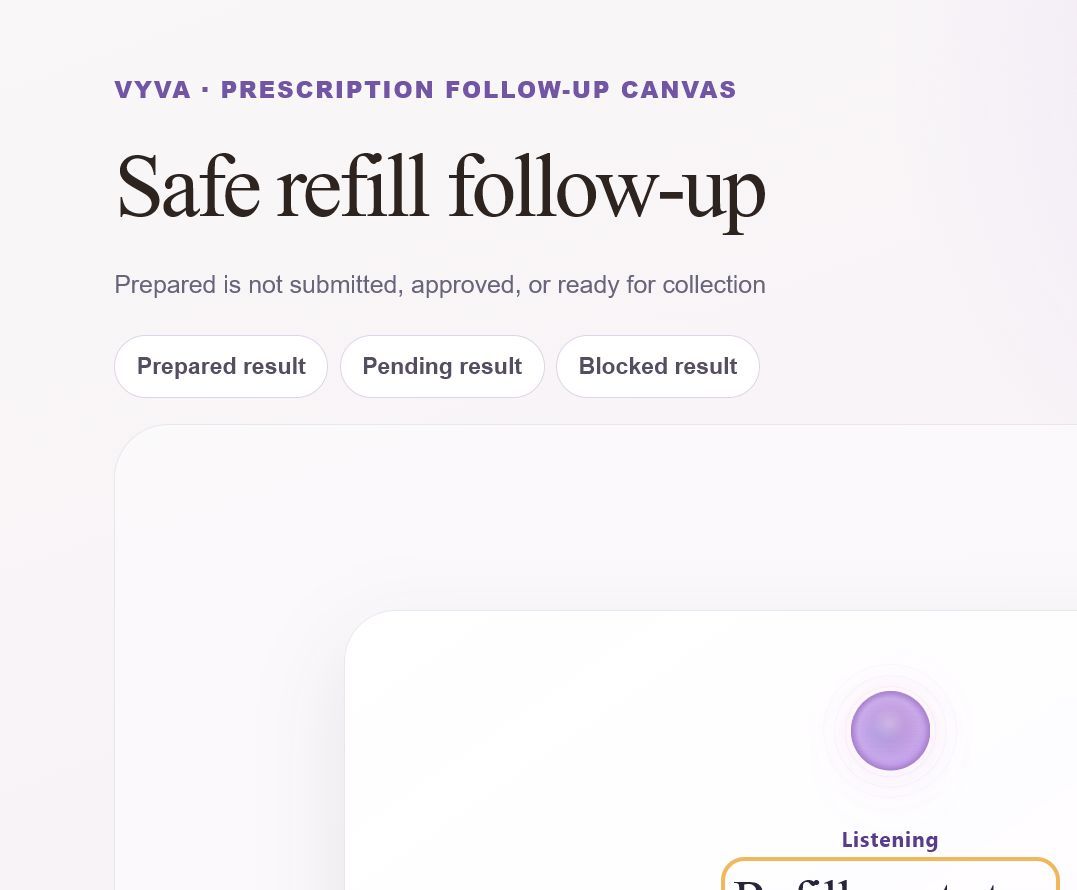
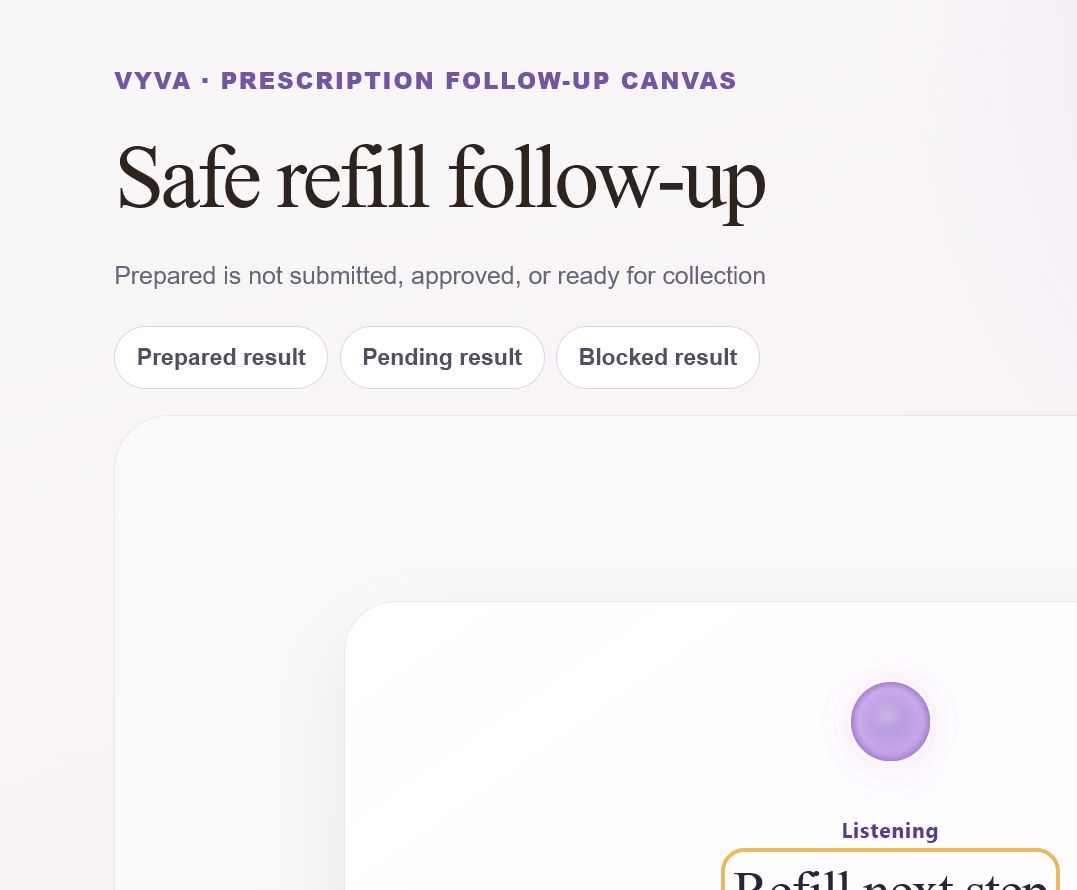
Harden prescription follow-up status handling

diff --git a/src/pages/AdherenceReportScreen.tsx b/src/pages/AdherenceReportScreen.tsx
@@ -7,7 +7,7 @@ import { useToast } from "@/hooks/use-toast";
 import VoiceActionFulfillmentPanel from "@/components/VoiceActionFulfillmentPanel";
 import { useVoiceActionFulfillment } from "@/hooks/useVoiceActionFulfillment";
 import { ApiError, apiFetch } from "@/lib/queryClient";
-import { PrescriptionFollowUpVoiceCanvas, RefillVoiceCanvas, isPrescriptionFollowUpEnabled, isRefillCanvasEnabled, parsePrescriptionFollowUpRolloutConfig, parseRefillCanvasRolloutConfig, trackPrescriptionFollowUpEvent, trackRefillCanvasEvent, type PrescriptionFollowUpCopy, type PrescriptionFollowUpSource, type RefillCanvasCopy, type RefillCanvasDraft } from "@/components/voice-canvas";
+import { PrescriptionFollowUpVoiceCanvas, RefillVoiceCanvas, executePrescriptionFollowUp, isPrescriptionFollowUpEnabled, isRefillCanvasEnabled, parsePrescriptionFollowUpRolloutConfig, parseRefillCanvasRolloutConfig, trackPrescriptionFollowUpEvent, trackRefillCanvasEvent, type PrescriptionFollowUpCopy, type PrescriptionFollowUpSource, type RefillCanvasCopy, type RefillCanvasDraft } from "@/components/voice-canvas";
 import { useProfile } from "@/contexts/ProfileContext";
 import { useLanguage } from "@/i18n";
 import { sanitizePhoneHref } from "@/lib/emergencyContacts";
@@ -344,8 +344,9 @@ const AdherenceReportScreen = () => {
   const urgentTerms=useMemo(()=>isSpanish?["reacción grave","sobredosis","no puedo respirar","medicamento crítico","me he quedado sin"]:["severe reaction","overdose","cannot breathe","can't breathe","time-critical medicine","critical medicine ran out"],[isSpanish]);
   const confirmRefillPreparation=useCallback(async(draft:Readonly<RefillCanvasDraft>,{signal}:{requestId:number;signal:AbortSignal})=>{const response=await apiFetch("/api/concierge/actions/trigger",{method:"POST",signal,body:JSON.stringify({use_case:"order_medicine",provider_name:draft.providerName,found_externally:false,action_summary:`Medication refill preparation ready for review.`,action_payload:{preparation_only:true,prescription_refill:true,medication_name:draft.medicationName,strength:draft.strength,provider_name:draft.providerName,provider_kind:draft.providerKind||"unspecified",quantity_or_supply:draft.quantity,notes:draft.notes,preferred_contact_method:draft.contactMethod,confirmation_required_before_contact:true,refill_requested:false,refill_approved:false,no_dosing_advice:true},language,trigger_source:"medication_refill_canvas",auto_start:false})});if(!response.ok){const body=await response.json().catch(()=>null)as{error?:string}|null;throw new Error(body?.error??(isSpanish?"No pudimos preparar la reposición.":"We could not prepare the refill."))}const result=await response.json()as{pendingId?:string;status?:string};return{reference:result.pendingId||result.status}},[isSpanish,language]);
   const followUpCopy=useMemo<PrescriptionFollowUpCopy>(()=>({listening:{status:isSpanish?"Escuchando":"Listening",title:isSpanish?"Siguiente paso de la reposición":"Refill next step",helper:isSpanish?"La preparación está guardada, pero aún no se ha solicitado ni aprobado.":"The preparation is saved, but it has not been requested or approved.",start:isSpanish?"Elegir siguiente paso":"Choose next step",cancel:isSpanish?"Ahora no":"Not now"},nextStep:{title:isSpanish?"¿Qué quieres hacer ahora?":"What would you like to do next?",helper:isSpanish?"Solo prepararemos el paso que elijas.":"We will only prepare the step you choose.",clinician:isSpanish?"Preparar revisión clínica":"Prepare clinician review",clinicianHelper:isSpanish?"No contacta al profesional todavía.":"Does not contact the clinician yet.",pharmacy:isSpanish?"Preparar revisión de farmacia":"Prepare pharmacy review",pharmacyHelper:isSpanish?"No contacta a la farmacia todavía.":"Does not contact the pharmacy yet.",status:isSpanish?"Comprobar estado de preparación":"Check preparation status",statusHelper:isSpanish?"No implica aprobación ni disponibilidad.":"Does not imply approval or collection readiness.",update:isSpanish?"Añadir información que falta":"Add missing information",updateHelper:isSpanish?"Revisa el dato antes de guardarlo.":"Review the detail before saving it.",back:isSpanish?"Salir":"Exit"},missingInfo:{title:isSpanish?"¿Qué información falta?":"What information is missing?",helper:isSpanish?"No incluyas instrucciones de dosis nuevas.":"Do not add new dosing instructions.",label:isSpanish?"Información para revisar":"Information to review",placeholder:isSpanish?"Añade solo el dato necesario":"Add only the necessary detail",continue:isSpanish?"Continuar":"Continue",back:isSpanish?"Volver":"Go back"},review:{title:isSpanish?"Revisa el siguiente paso":"Review the next step",helper:isSpanish?"Nada se contacta ni se guarda hasta que confirmes.":"Nothing is contacted or saved until you confirm.",nextStep:isSpanish?"Siguiente paso":"Next step",medication:isSpanish?"Medicamento":"Medication",reviewer:isSpanish?"Revisor previsto":"Intended reviewer",information:isSpanish?"Información":"Information",prepared:isSpanish?"Estado actual: preparado":"Current status: prepared",confirm:isSpanish?"Confirmar siguiente paso":"Confirm next step",back:isSpanish?"Cambiar":"Make a change",actionLabels:{clinician:isSpanish?"Preparar revisión clínica":"Prepare clinician review",pharmacy:isSpanish?"Preparar revisión de farmacia":"Prepare pharmacy review",status:isSpanish?"Comprobar estado":"Check preparation status",update:isSpanish?"Añadir información":"Add information"}},waiting:{status:isSpanish?"Espera un momento":"Please wait",title:isSpanish?"Procesando el paso confirmado":"Processing the confirmed step",helper:isSpanish?"Esto no significa que la reposición esté aprobada o lista.":"This does not mean the refill is approved or ready.",action:isSpanish?"Procesando…":"Processing…"},completed:{status:isSpanish?"Preparado":"Prepared",title:isSpanish?"El siguiente paso está preparado":"The next step is prepared",helper:isSpanish?"Aún no se ha contactado, aprobado ni dispensado nada.":"Nothing has been contacted, approved, or dispensed.",reference:isSpanish?"Referencia":"Reference",done:isSpanish?"Terminar":"Done"},pending:{status:isSpanish?"Pendiente":"Pending",title:isSpanish?"La preparación sigue pendiente":"The preparation is still pending",helper:isSpanish?"No hay confirmación de aprobación ni de recogida.":"There is no confirmation of approval or collection readiness.",reference:isSpanish?"Referencia":"Reference",done:isSpanish?"Terminar":"Done"},blocked:{status:isSpanish?"Necesita atención":"Needs attention",title:isSpanish?"No pudimos completar este paso":"We could not complete this step",helper:isSpanish?"Puedes revisar e intentarlo otra vez.":"You can review and try again.",retry:isSpanish?"Revisar e intentar otra vez":"Review and retry",cancel:isSpanish?"Cancelar":"Cancel"},cancelled:{status:isSpanish?"Cancelado":"Cancelled",title:isSpanish?"No se hizo ningún cambio":"No change was made",helper:isSpanish?"No se contactó a nadie ni se guardó información.":"Nobody was contacted and no information was saved.",restart:isSpanish?"Empezar otra vez":"Start again"},progress:(current,total)=>isSpanish?`Paso ${current} de ${total}`:`Step ${current} of ${total}`}),[isSpanish]);
+  const safeFollowUpCopy=useMemo<PrescriptionFollowUpCopy>(()=>({...followUpCopy,listening:{...followUpCopy.listening,helper:isSpanish?"La preparación está guardada; no se ha enviado, aprobado ni marcado como lista para recoger.":"The preparation is saved; it has not been submitted, approved, or marked ready for collection."},review:{...followUpCopy.review,contact:isSpanish?"Contacto previsto":"Intended contact"},completed:{...followUpCopy.completed,helper:isSpanish?"El siguiente paso está preparado, no enviado. No se ha aprobado ni dispensado nada.":"The next step is prepared, not submitted. Nothing has been approved or dispensed."},pending:{...followUpCopy.pending,helper:isSpanish?"Sigue pendiente; no hay confirmación de envío, aprobación ni disponibilidad para recoger.":"It remains pending; there is no confirmation of submission, approval, or collection readiness."}}),[followUpCopy,isSpanish]);
   const followUpCommands=useMemo(()=>({start:isSpanish?["elegir siguiente paso","empezar"]:["choose next step","start"],back:isSpanish?["volver","atrás"]:["back","go back"],cancel:isSpanish?["cancelar","ahora no"]:["cancel","not now"],confirm:isSpanish?["confirmar"]:["confirm"],retry:isSpanish?["intentar otra vez"]:["retry"],clinician:isSpanish?["revisión clínica","profesional"]:["clinician review","clinician"],pharmacy:isSpanish?["revisión de farmacia","farmacia"]:["pharmacy review","pharmacy"],status:isSpanish?["comprobar estado","estado"]:["check status","status"],update:isSpanish?["añadir información","actualizar"]:["add information","update"]}),[isSpanish]);
-  const confirmPrescriptionFollowUp=useCallback(async(source:Readonly<PrescriptionFollowUpSource>,draft:{action:string;missingInformation:string},{signal}:{requestId:number;signal:AbortSignal})=>{if(draft.action==="status"){const response=await apiFetch("/api/concierge/actions/pending",{signal});if(!response.ok)throw new Error(isSpanish?"No pudimos comprobar el estado.":"We could not check the status.");const body=await response.json()as{items?:Array<{id:string}>};return{outcome:"pending" as const,reference:body.items?.find(item=>item.id===source.preparationReference)?.id||source.preparationReference}}const response=await apiFetch("/api/concierge/actions/trigger",{method:"POST",signal,body:JSON.stringify({use_case:"order_medicine",provider_name:source.draft.providerName,found_externally:false,action_summary:"Prescription follow-up preparation ready for review.",action_payload:{preparation_only:true,prescription_follow_up:true,source_preparation_id:source.preparationReference,follow_up_kind:draft.action,missing_information:draft.action==="update"?draft.missingInformation:undefined,confirmation_required_before_contact:true,external_contact_started:false,refill_requested:false,refill_approved:false,ready_for_collection:false,no_dosing_advice:true},language,trigger_source:"manual",auto_start:false})});if(!response.ok){const body=await response.json().catch(()=>null)as{error?:string}|null;throw new Error(body?.error??(isSpanish?"No pudimos preparar el siguiente paso.":"We could not prepare the next step."))}const result=await response.json()as{pendingId?:string};return{outcome:"completed" as const,reference:result.pendingId}},[isSpanish,language]);
+  const confirmPrescriptionFollowUp=useCallback((source:Readonly<PrescriptionFollowUpSource>,draft:{action:""|"clinician"|"pharmacy"|"status"|"update";missingInformation:string},{signal}:{requestId:number;signal:AbortSignal})=>executePrescriptionFollowUp(apiFetch,source,draft,{signal,language,messages:{statusFailed:isSpanish?"No pudimos comprobar el estado.":"We could not check the status.",statusUnknown:isSpanish?"No hay un estado verificable para esta preparación.":"No verified status is available for this preparation.",prepareFailed:isSpanish?"No pudimos preparar el siguiente paso.":"We could not prepare the next step."}}),[isSpanish,language]);
   const serviceActions: AdherenceServiceAction[] = [
     {
       id: "refill",
@@ -601,7 +602,7 @@ const AdherenceReportScreen = () => {
 
         {prescriptionFollowUpSource&&prescriptionFollowUpEnabled&&!refillCanvasOpen&&(
           <section className="mb-[14px] flex justify-center rounded-[28px] bg-[#F8F4FA] p-2 sm:p-4" data-testid="panel-prescription-follow-up-voice-canvas">
-            <PrescriptionFollowUpVoiceCanvas source={prescriptionFollowUpSource} copy={followUpCopy} voiceCommands={followUpCommands} storageKey={`vyva.prescriptionFollowUp.adherence.${profile?.profileId??"active"}.${prescriptionFollowUpSource.preparationReference}`} onConfirm={confirmPrescriptionFollowUp} onDone={()=>setPrescriptionFollowUpSource(null)} onCancel={()=>setPrescriptionFollowUpSource(null)} onTelemetry={trackPrescriptionFollowUpEvent}/>
+            <PrescriptionFollowUpVoiceCanvas source={prescriptionFollowUpSource} copy={safeFollowUpCopy} voiceCommands={followUpCommands} storageKey={`vyva.prescriptionFollowUp.adherence.${profile?.profileId??"active"}.${prescriptionFollowUpSource.preparationReference}`} onConfirm={confirmPrescriptionFollowUp} onDone={()=>setPrescriptionFollowUpSource(null)} onCancel={()=>setPrescriptionFollowUpSource(null)} onTelemetry={trackPrescriptionFollowUpEvent}/>
           </section>
         )}
 

diff --git a/src/components/voice-canvas/prescriptionFollowUpViewModel.ts b/src/components/voice-canvas/prescriptionFollowUpViewModel.ts
@@ -1,10 +1,10 @@
 import{Building2,ClipboardCheck,FilePenLine,Stethoscope}from"lucide-react";import type{VoiceCanvasViewModel}from"./types";import type{PrescriptionFollowUpAction,PrescriptionFollowUpState}from"./prescriptionFollowUpMachine";
-export interface PrescriptionFollowUpCopy{listening:{status:string;title:string;helper:string;start:string;cancel:string};nextStep:{title:string;helper:string;clinician:string;clinicianHelper:string;pharmacy:string;pharmacyHelper:string;status:string;statusHelper:string;update:string;updateHelper:string;back:string};missingInfo:{title:string;helper:string;label:string;placeholder:string;continue:string;back:string};review:{title:string;helper:string;nextStep:string;medication:string;reviewer:string;information:string;prepared:string;confirm:string;back:string;actionLabels:Record<Exclude<PrescriptionFollowUpAction,"">,string>};waiting:{status:string;title:string;helper:string;action:string};completed:{status:string;title:string;helper:string;reference:string;done:string};pending:{status:string;title:string;helper:string;reference:string;done:string};blocked:{status:string;title:string;helper:string;retry:string;cancel:string};cancelled:{status:string;title:string;helper:string;restart:string};progress:(current:number,total:number)=>string}
+export interface PrescriptionFollowUpCopy{listening:{status:string;title:string;helper:string;start:string;cancel:string};nextStep:{title:string;helper:string;clinician:string;clinicianHelper:string;pharmacy:string;pharmacyHelper:string;status:string;statusHelper:string;update:string;updateHelper:string;back:string};missingInfo:{title:string;helper:string;label:string;placeholder:string;continue:string;back:string};review:{title:string;helper:string;nextStep:string;medication:string;reviewer:string;contact?:string;information:string;prepared:string;confirm:string;back:string;actionLabels:Record<Exclude<PrescriptionFollowUpAction,"">,string>};waiting:{status:string;title:string;helper:string;action:string};completed:{status:string;title:string;helper:string;reference:string;done:string};pending:{status:string;title:string;helper:string;reference:string;done:string};blocked:{status:string;title:string;helper:string;retry:string;cancel:string};cancelled:{status:string;title:string;helper:string;restart:string};progress:(current:number,total:number)=>string}
 export function prescriptionFollowUpViewModel(state:PrescriptionFollowUpState,copy:PrescriptionFollowUpCopy):VoiceCanvasViewModel{const progress=(current:number)=>({current,total:3,label:copy.progress(current,3)}),action=state.draft.action&&copy.review.actionLabels[state.draft.action];switch(state.step){
  case"listening":return{sceneId:"prescription-follow-up-listening",kind:"listening",title:copy.listening.title,helperText:copy.listening.helper,status:"listening",statusLabel:copy.listening.status,primaryAction:{label:copy.listening.start},secondaryAction:{label:copy.listening.cancel}};
  case"nextStep":return{sceneId:"prescription-follow-up-next-step",kind:"choice",title:copy.nextStep.title,helperText:copy.nextStep.helper,progress:progress(1),choices:[{id:"clinician",label:copy.nextStep.clinician,description:copy.nextStep.clinicianHelper,accessibleLabel:copy.nextStep.clinician,icon:Stethoscope},{id:"pharmacy",label:copy.nextStep.pharmacy,description:copy.nextStep.pharmacyHelper,accessibleLabel:copy.nextStep.pharmacy,icon:Building2},{id:"status",label:copy.nextStep.status,description:copy.nextStep.statusHelper,accessibleLabel:copy.nextStep.status,icon:ClipboardCheck},{id:"update",label:copy.nextStep.update,description:copy.nextStep.updateHelper,accessibleLabel:copy.nextStep.update,icon:FilePenLine}],secondaryAction:{label:copy.nextStep.back}};
  case"missingInfo":return{sceneId:"prescription-follow-up-missing-info",kind:"text-entry",title:copy.missingInfo.title,helperText:copy.missingInfo.helper,progress:progress(2),textEntry:{label:copy.missingInfo.label,value:state.draft.missingInformation,placeholder:copy.missingInfo.placeholder,accessibleLabel:copy.missingInfo.label,multiline:true},primaryAction:{label:copy.missingInfo.continue,disabled:!state.draft.missingInformation.trim()},secondaryAction:{label:copy.missingInfo.back}};
- case"review":return{sceneId:"prescription-follow-up-review",kind:"review",title:copy.review.title,helperText:copy.review.helper,progress:progress(3),summaryRows:[{id:"status",label:copy.review.prepared,value:copy.review.prepared},{id:"action",label:copy.review.nextStep,value:action||""},{id:"medication",label:copy.review.medication,value:state.source.draft.medicationName},{id:"reviewer",label:copy.review.reviewer,value:state.source.draft.providerName},...(state.draft.missingInformation?[{id:"information",label:copy.review.information,value:state.draft.missingInformation}]:[])],primaryAction:{label:copy.review.confirm},secondaryAction:{label:copy.review.back}};
+ case"review":return{sceneId:"prescription-follow-up-review",kind:"review",title:copy.review.title,helperText:copy.review.helper,progress:progress(3),summaryRows:[{id:"status",label:copy.review.prepared,value:copy.review.prepared},{id:"action",label:copy.review.nextStep,value:action||""},{id:"medication",label:copy.review.medication,value:state.source.draft.medicationName},{id:"reviewer",label:copy.review.reviewer,value:state.source.draft.providerName},{id:"contact",label:copy.review.contact||copy.review.reviewer,value:state.source.draft.contactMethod},...(state.draft.missingInformation?[{id:"information",label:copy.review.information,value:state.draft.missingInformation}]:[])],primaryAction:{label:copy.review.confirm},secondaryAction:{label:copy.review.back}};
  case"waiting":return{sceneId:"prescription-follow-up-waiting",kind:"waiting",title:copy.waiting.title,helperText:copy.waiting.helper,status:"loading",statusLabel:copy.waiting.status,primaryAction:{label:copy.waiting.action,loading:true}};
  case"completed":return{sceneId:"prescription-follow-up-completed",kind:"completed",title:copy.completed.title,helperText:copy.completed.helper,status:"success",statusLabel:copy.completed.status,summaryRows:state.resultReference?[{id:"reference",label:copy.completed.reference,value:state.resultReference}]:[],primaryAction:{label:copy.completed.done}};
  case"pending":return{sceneId:"prescription-follow-up-pending",kind:"completed",title:copy.pending.title,helperText:copy.pending.helper,status:"idle",statusLabel:copy.pending.status,summaryRows:state.resultReference?[{id:"reference",label:copy.pending.reference,value:state.resultReference}]:[],primaryAction:{label:copy.pending.done}};

diff --git a/src/dev/voice-canvas/prescription-follow-up.tsx b/src/dev/voice-canvas/prescription-follow-up.tsx
@@ -1,4 +1,5 @@
 import{useCallback,useState}from"react";import{PrescriptionFollowUpVoiceCanvas,type PrescriptionFollowUpCopy}from"../../components/voice-canvas";import"./gallery.css";import"./integration.css";import"./prescription-follow-up.css";
 const en:PrescriptionFollowUpCopy={listening:{status:"Listening",title:"Refill next step",helper:"Your refill preparation is saved. It has not been requested or approved.",start:"Choose next step",cancel:"Not now"},nextStep:{title:"What would you like to do next?",helper:"We will only prepare the step you choose.",clinician:"Prepare clinician review",clinicianHelper:"Nobody is contacted yet",pharmacy:"Prepare pharmacy review",pharmacyHelper:"The pharmacy is not contacted yet",status:"Check preparation status",statusHelper:"This does not imply approval or collection readiness",update:"Add missing information",updateHelper:"Review the detail before saving",back:"Exit"},missingInfo:{title:"What information is missing?",helper:"Do not add new dosing instructions.",label:"Information to review",placeholder:"Add only the necessary detail",continue:"Continue",back:"Go back"},review:{title:"Review the next step",helper:"Nothing is contacted or saved until you confirm.",nextStep:"Next step",medication:"Medication",reviewer:"Intended reviewer",information:"Information",prepared:"Current status: prepared",confirm:"Confirm next step",back:"Make a change",actionLabels:{clinician:"Prepare clinician review",pharmacy:"Prepare pharmacy review",status:"Check preparation status",update:"Add missing information"}},waiting:{status:"Please wait",title:"Processing the confirmed step",helper:"This does not mean the refill is approved or ready.",action:"Processing…"},completed:{status:"Prepared",title:"The next step is prepared",helper:"Nothing has been contacted, approved, or dispensed.",reference:"Reference",done:"Done"},pending:{status:"Pending",title:"The preparation is still pending",helper:"There is no confirmation of approval or collection readiness.",reference:"Reference",done:"Done"},blocked:{status:"Needs attention",title:"We could not complete this step",helper:"Review and try again.",retry:"Review and retry",cancel:"Cancel"},cancelled:{status:"Cancelled",title:"No change was made",helper:"Nobody was contacted and no information was saved.",restart:"Start again"},progress:(a,b)=>`Step ${a} of ${b}`};
+en.review.contact="Intended contact";en.listening.helper="Your refill preparation is saved. It has not been submitted, approved, or marked ready for collection.";en.completed.helper="The next step is prepared, not submitted. Nothing has been approved or dispensed.";en.pending.helper="It remains pending; there is no confirmation of submission, approval, or collection readiness.";
 const source={preparationReference:"VYVA-REFILL-2486",preparationStatus:"prepared" as const,draft:{medicationId:"metformin",medicationName:"Metformin",strength:"500 mg",providerId:"gp",providerName:"Dr Garcia",providerKind:"prescriber" as const,quantity:"30 days",notes:"",contactMethod:"Review in VYVA"}};
 export default function Gallery(){const[outcome,setOutcome]=useState<"completed"|"pending"|"blocked">("completed"),confirm=useCallback(async()=>{await new Promise(resolve=>setTimeout(resolve,350));if(outcome==="blocked")throw new Error("The follow-up service is temporarily unavailable.");return{outcome:outcome as"completed"|"pending",reference:"VYVA-FOLLOW-UP-2487"}},[outcome]);return <main className="vc-gallery vc-integration-gallery"><header><p>VYVA · Prescription Follow-up Canvas</p><h1>Safe refill follow-up</h1><span>Prepared is not submitted, approved, or ready for collection</span></header><div className="vc-demo-toolbar"><button onClick={()=>setOutcome("completed")}>Prepared result</button><button onClick={()=>setOutcome("pending")}>Pending result</button><button onClick={()=>setOutcome("blocked")}>Blocked result</button></div><div className="vc-gallery-stage"><PrescriptionFollowUpVoiceCanvas source={source} copy={en} voiceCommands={{start:["start"],back:["back"],cancel:["cancel"],confirm:["confirm"],retry:["retry"],clinician:["clinician"],pharmacy:["pharmacy"],status:["status"],update:["update"]}} onConfirm={confirm} storageKey="prescription-follow-up-gallery"/></div></main>}

diff --git a/src/components/voice-canvas/PrescriptionFollowUpVoiceCanvas.test.tsx b/src/components/voice-canvas/PrescriptionFollowUpVoiceCanvas.test.tsx
@@ -9,5 +9,7 @@ it("blocks duplicates, retries failures, and ignores stale completion",async()=>
 it("cancels without calling the confirmation boundary",()=>{const confirm=vi.fn();render(<PrescriptionFollowUpVoiceCanvas {...base} onConfirm={confirm}/>);click("Not now");expect(screen.getByRole("heading",{name:"No change"})).toBeInTheDocument();expect(confirm).not.toHaveBeenCalled()});
 it("restores safe input but not waiting requests",()=>{sessionStorage.setItem("follow-up-test",JSON.stringify({step:"missingInfo",source,draft:{action:"update",missingInformation:"Saved detail"},requestId:0}));const{unmount}=render(<PrescriptionFollowUpVoiceCanvas {...base}/>);expect(screen.getByDisplayValue("Saved detail")).toBeInTheDocument();unmount();sessionStorage.setItem("follow-up-test",JSON.stringify({step:"waiting",source,draft:{action:"status",missingInformation:""},requestId:3}));render(<PrescriptionFollowUpVoiceCanvas {...base}/>);expect(screen.getByRole("heading",{name:"Refill next step"})).toBeInTheDocument()});
 it("supports voice and keyboard-only completion",async()=>{const confirm=vi.fn().mockResolvedValue({outcome:"completed",reference:"VOICE"});render(<PrescriptionFollowUpVoiceCanvas {...base} onConfirm={confirm}/>);act(()=>say("start"));await screen.findByRole("heading",{name:"What next?"});act(()=>say("pharmacy"));expect(await screen.findByRole("heading",{name:"Review next step"})).toHaveFocus();act(()=>say("confirm"));expect(await screen.findByText("VOICE")).toBeInTheDocument()});
+it("handles a voice interruption as a safe cancellation",async()=>{const confirm=vi.fn();render(<PrescriptionFollowUpVoiceCanvas {...base} onConfirm={confirm}/>);act(()=>say("start"));await screen.findByRole("heading",{name:"What next?"});act(()=>say("cancel"));expect(await screen.findByRole("heading",{name:"No change"})).toBeInTheDocument();expect(confirm).not.toHaveBeenCalled()});
+it("supports Spanish copy and long translated labels",()=>{const spanish={...copy,listening:{...copy.listening,title:"Siguiente paso de la reposición",start:"Elegir siguiente paso"},nextStep:{...copy.nextStep,title:"¿Qué quieres hacer ahora?",pharmacy:"Preparar una revisión con la farmacia comunitaria de nombre especialmente largo"}};render(<PrescriptionFollowUpVoiceCanvas {...base} copy={spanish}/>);click("Elegir siguiente paso");expect(screen.getByRole("heading",{name:"¿Qué quieres hacer ahora?"})).toBeInTheDocument();expect(screen.getByRole("button",{name:"Preparar una revisión con la farmacia comunitaria de nombre especialmente largo"})).toBeVisible()});
 it("aborts reconnect work and emits privacy-safe telemetry",async()=>{const events:unknown[]=[];const confirm=vi.fn((_source,_draft,{signal})=>new Promise((_resolve,reject)=>signal.addEventListener("abort",()=>reject(new DOMException("Aborted","AbortError")))));const{unmount}=render(<PrescriptionFollowUpVoiceCanvas {...base} onConfirm={confirm} onTelemetry={event=>events.push(event)}/>);begin("Pharmacy review");click("Confirm next step");const signal=confirm.mock.calls[0][2].signal;unmount();expect(signal.aborted).toBe(true);await waitFor(()=>expect(JSON.stringify(events)).not.toContain("Metformin"))});
 describe.each([390,768,1440])("%s px",width=>it("keeps long translated actions visible",()=>{Object.defineProperty(window,"innerWidth",{value:width,configurable:true});render(<PrescriptionFollowUpVoiceCanvas {...base}/>);click("Choose next step");expect(screen.getByRole("button",{name:"Pharmacy review"})).toBeVisible()}));

diff --git a/src/pages/AdherenceReportScreen.actions.test.tsx b/src/pages/AdherenceReportScreen.actions.test.tsx
@@ -5,6 +5,9 @@ import AdherenceReportScreen from "./AdherenceReportScreen";
 
 const profileMock = vi.fn();
 const queryResultMock = vi.fn();
+const apiFetchMock = vi.fn();
+
+vi.mock("@/lib/queryClient",async(importOriginal)=>{const actual=await importOriginal<typeof import("@/lib/queryClient")>();return{...actual,apiFetch:(...args:unknown[])=>apiFetchMock(...args)}});
 
 vi.mock("@tanstack/react-query", async (importOriginal) => {
   const actual = await importOriginal<typeof import("@tanstack/react-query")>();
@@ -134,6 +137,7 @@ function renderAdherenceReport() {
 describe("Adherence report service actions", () => {
   beforeEach(() => {
     vi.clearAllMocks();
+    apiFetchMock.mockResolvedValue({ok:true,json:async()=>({pendingId:"PREP-1"})});
     profileMock.mockReturnValue({
       profile: {
         gpName: "Dr Garcia",
@@ -212,6 +216,8 @@ describe("Adherence report service actions", () => {
 
     await waitFor(() => expect(screen.queryByTestId("panel-medication-refill-voice-canvas")).not.toBeInTheDocument());
   });
+
+  it("hands a confirmed refill preparation into independently flagged follow-up",async()=>{queryResultMock.mockImplementation((options:{queryKey?:string[]})=>({data:options?.queryKey?.[0]?.includes("voice-canvas")?{enabled:true,rolloutPercent:100}:report,isLoading:false,isError:false,refetch:vi.fn(),error:null}));renderAdherenceReport();fireEvent.click(screen.getByTestId("button-adherence-service-refill"));fireEvent.click(await screen.findByRole("button",{name:"Start"}));fireEvent.click(screen.getByRole("button",{name:"Metformin"}));fireEvent.click(screen.getByRole("button",{name:"Yes, routine refill"}));fireEvent.click(screen.getByRole("button",{name:"Dr Garcia"}));fireEvent.change(screen.getByLabelText("Quantity or supply"),{target:{value:"30 days"}});fireEvent.click(screen.getByRole("button",{name:"Continue"}));fireEvent.click(screen.getByRole("button",{name:"Continue"}));fireEvent.click(screen.getByRole("button",{name:"Review in VYVA"}));expect(apiFetchMock).not.toHaveBeenCalledWith("/api/concierge/actions/trigger",expect.anything());fireEvent.click(screen.getByRole("button",{name:"Confirm and prepare"}));await screen.findByText("PREP-1");fireEvent.click(screen.getByRole("button",{name:"Done"}));expect(await screen.findByTestId("panel-prescription-follow-up-voice-canvas")).toBeInTheDocument();expect(screen.getByText("The preparation is saved; it has not been submitted, approved, or marked ready for collection.")).toBeInTheDocument()});
 
   it("prefills appointment and doctor voice help from the medication report", async () => {
     renderAdherenceReport();

diff --git a/src/components/voice-canvas/RefillVoiceCanvas.test.tsx b/src/components/voice-canvas/RefillVoiceCanvas.test.tsx
@@ -4,6 +4,7 @@ const base:RefillVoiceCanvasProps={copy,medications:[{id:"metformin",label:"Metf
 const say=(text:string)=>act(()=>window.dispatchEvent(new CustomEvent<VoiceUserMessageDetail>(VYVA_VOICE_USER_MESSAGE_EVENT,{detail:{text,transcriptEntry:{from:"user",text}}})));
 beforeEach(()=>sessionStorage.clear());
 it("prepares a saved medication only after explicit confirmation",async()=>{const confirm=vi.fn().mockResolvedValue({reference:"REFILL-42"});render(<RefillVoiceCanvas {...base} onConfirmPrepare={confirm}/>);toReview();expect(confirm).not.toHaveBeenCalled();click("Confirm preparation");expect(await screen.findByText("REFILL-42")).toBeInTheDocument();expect(confirm).toHaveBeenCalledOnce()});
+it("hands the immutable completed preparation to follow-up",async()=>{const prepared=vi.fn();render(<RefillVoiceCanvas {...base} onPrepared={prepared}/>);toReview();click("Confirm preparation");await screen.findByText("REFILL-42");expect(prepared).toHaveBeenCalledWith({reference:"REFILL-42"},expect.objectContaining({medicationName:"Metformin",providerName:"Dr Garcia"}));expect(Object.isFrozen(prepared.mock.calls[0][0])).toBe(true);expect(Object.isFrozen(prepared.mock.calls[0][1])).toBe(true)});
 it("requires exact manual medication strength and quantity",()=>{render(<RefillVoiceCanvas {...base}/>);click("Start");click("Different medication");expect(screen.getByRole("button",{name:"Continue"})).toBeDisabled();fireEvent.change(screen.getByLabelText("Medication name"),{target:{value:"Label Medicine"}});click("Continue");expect(screen.getByRole("button",{name:"Continue"})).toBeDisabled();fireEvent.change(screen.getByLabelText("Strength"),{target:{value:"10 mg"}});click("Continue");click("Routine refill");click("Dr Garcia");expect(screen.getByRole("button",{name:"Continue"})).toBeDisabled()});
 it("offers a blocked path when medication cannot be identified",()=>{render(<RefillVoiceCanvas {...base}/>);click("Start");click("I cannot identify it");expect(screen.getByRole("heading",{name:"Do not continue"})).toBeInTheDocument();click("Review and retry");expect(screen.getByRole("heading",{name:"Which medication?"})).toBeInTheDocument()});
 it("routes explicit urgent choice without calls or messages",()=>{const urgent=vi.fn();const confirm=vi.fn();render(<RefillVoiceCanvas {...base} onUrgentHelp={urgent} onConfirmPrepare={confirm}/>);click("Start");click("Metformin");click("Urgent help");expect(screen.getByRole("heading",{name:"This needs help"})).toBeInTheDocument();expect(confirm).not.toHaveBeenCalled();click("View help options");expect(urgent).toHaveBeenCalledOnce()});

diff --git a/src/components/voice-canvas/prescriptionFollowUpActions.test.ts b/src/components/voice-canvas/prescriptionFollowUpActions.test.ts
@@ -1,0 +1,7 @@
+import{describe,expect,it,vi}from"vitest";import{executePrescriptionFollowUp}from"./prescriptionFollowUpActions";import type{PrescriptionFollowUpSource}from"./prescriptionFollowUpMachine";
+const source:PrescriptionFollowUpSource={preparationReference:"PREP-1",preparationStatus:"prepared",draft:{medicationId:"m",medicationName:"Private medicine",strength:"5 mg",providerId:"p",providerName:"Private clinician",providerKind:"prescriber",quantity:"30 days",notes:"Private note",contactMethod:"Phone later"}};const context={signal:new AbortController().signal,language:"en",messages:{statusFailed:"Status failed",statusUnknown:"Status unknown",prepareFailed:"Prepare failed"}};
+describe("executePrescriptionFollowUp",()=>{
+ it("checks status without writing and only reports a verified pending item",async()=>{const fetcher=vi.fn().mockResolvedValue({ok:true,json:async()=>({items:[{id:"PREP-1",status:"pending"}]})});await expect(executePrescriptionFollowUp(fetcher,source,{action:"status",missingInformation:""},context)).resolves.toEqual({outcome:"pending",reference:"PREP-1"});expect(fetcher).toHaveBeenCalledWith("/api/concierge/actions/pending",{signal:context.signal});expect(fetcher.mock.calls[0][1]).not.toHaveProperty("method")});
+ it("fails safely when the preparation has no verified status",async()=>{const fetcher=vi.fn().mockResolvedValue({ok:true,json:async()=>({items:[]})});await expect(executePrescriptionFollowUp(fetcher,source,{action:"status",missingInformation:""},context)).rejects.toThrow("Status unknown")});
+ it.each(["clinician","pharmacy","update"]as const)("creates a preparation-only %s record",async action=>{const fetcher=vi.fn().mockResolvedValue({ok:true,json:async()=>({pendingId:"NEXT-1"})});await executePrescriptionFollowUp(fetcher,source,{action,missingInformation:action==="update"?"Missing insurance reference":""},context);const init=fetcher.mock.calls[0][1]as RequestInit,payload=JSON.parse(String(init.body));expect(init.method).toBe("POST");expect(payload.auto_start).toBe(false);expect(payload.action_payload).toMatchObject({preparation_only:true,external_contact_started:false,refill_submitted:false,refill_requested:false,refill_approved:false,ready_for_collection:false,no_dosing_advice:true})});
+});

diff --git a/src/components/voice-canvas/prescriptionFollowUpActions.ts b/src/components/voice-canvas/prescriptionFollowUpActions.ts
@@ -1,0 +1,6 @@
+import type{PrescriptionFollowUpSource,PrescriptionFollowUpDraft}from"./prescriptionFollowUpMachine";import type{PrescriptionFollowUpResult}from"./PrescriptionFollowUpVoiceCanvas";
+export type PrescriptionFollowUpFetch=(url:string,init?:RequestInit)=>Promise<Pick<Response,"ok"|"json">>;
+export interface PrescriptionFollowUpActionMessages{statusFailed:string;statusUnknown:string;prepareFailed:string}
+export async function executePrescriptionFollowUp(fetcher:PrescriptionFollowUpFetch,source:Readonly<PrescriptionFollowUpSource>,draft:Readonly<PrescriptionFollowUpDraft>,context:{signal:AbortSignal;language:string;messages:PrescriptionFollowUpActionMessages}):Promise<PrescriptionFollowUpResult>{
+ if(draft.action==="status"){const response=await fetcher("/api/concierge/actions/pending",{signal:context.signal});if(!response.ok)throw new Error(context.messages.statusFailed);const body=await response.json()as{items?:Array<{id:string;status?:string}>};const item=body.items?.find(candidate=>candidate.id===source.preparationReference);if(!item)throw new Error(context.messages.statusUnknown);return{outcome:"pending",reference:item.id}}
+ const response=await fetcher("/api/concierge/actions/trigger",{method:"POST",signal:context.signal,body:JSON.stringify({use_case:"order_medicine",provider_name:source.draft.providerName,found_externally:false,action_summary:"Prescription follow-up preparation ready for review.",action_payload:{preparation_only:true,prescription_follow_up:true,source_preparation_id:source.preparationReference,follow_up_kind:draft.action,missing_information:draft.action==="update"?draft.missingInformation:undefined,confirmation_required_before_contact:true,external_contact_started:false,refill_submitted:false,refill_requested:false,refill_approved:false,ready_for_collection:false,no_dosing_advice:true},language:context.language,trigger_source:"manual",auto_start:false})});if(!response.ok){const body=await response.json().catch(()=>null)as{error?:string}|null;throw new Error(body?.error??context.messages.prepareFailed)}const result=await response.json()as{pendingId?:string};return{outcome:"completed",reference:result.pendingId}}

diff --git a/src/components/voice-canvas/prescriptionFollowUpRollout.test.ts b/src/components/voice-canvas/prescriptionFollowUpRollout.test.ts
@@ -1,0 +1,1 @@
+import{describe,expect,it}from"vitest";import{isPrescriptionFollowUpEnabled,parsePrescriptionFollowUpRolloutConfig}from"./prescriptionFollowUpRollout";describe("prescription follow-up rollout",()=>{it("fails closed for missing or malformed config",()=>{expect(parsePrescriptionFollowUpRolloutConfig(null)).toEqual({enabled:false,rolloutPercent:0});expect(parsePrescriptionFollowUpRolloutConfig({enabled:"yes",rolloutPercent:200})).toEqual({enabled:false,rolloutPercent:100})});it("clamps rollout and supports immediate disable",()=>{expect(parsePrescriptionFollowUpRolloutConfig({enabled:true,rolloutPercent:-2}).rolloutPercent).toBe(0);expect(isPrescriptionFollowUpEnabled({enabled:true,rolloutPercent:100},"profile")).toBe(true);expect(isPrescriptionFollowUpEnabled({enabled:false,rolloutPercent:100},"profile")).toBe(false)})});

diff --git a/src/components/voice-canvas/index.ts b/src/components/voice-canvas/index.ts
@@ -27,3 +27,4 @@ export{prescriptionFollowUpReducer,initialPrescriptionFollowUpState,isRestorable
 export{prescriptionFollowUpViewModel}from"./prescriptionFollowUpViewModel";export type*from"./prescriptionFollowUpViewModel";
 export{trackPrescriptionFollowUpEvent,VYVA_PRESCRIPTION_FOLLOW_UP_TELEMETRY_EVENT}from"./prescriptionFollowUpTelemetry";export type*from"./prescriptionFollowUpTelemetry";
 export{isPrescriptionFollowUpEnabled,parsePrescriptionFollowUpRolloutConfig}from"./prescriptionFollowUpRollout";export type*from"./prescriptionFollowUpRollout";
+export{executePrescriptionFollowUp}from"./prescriptionFollowUpActions";export type*from"./prescriptionFollowUpActions";
